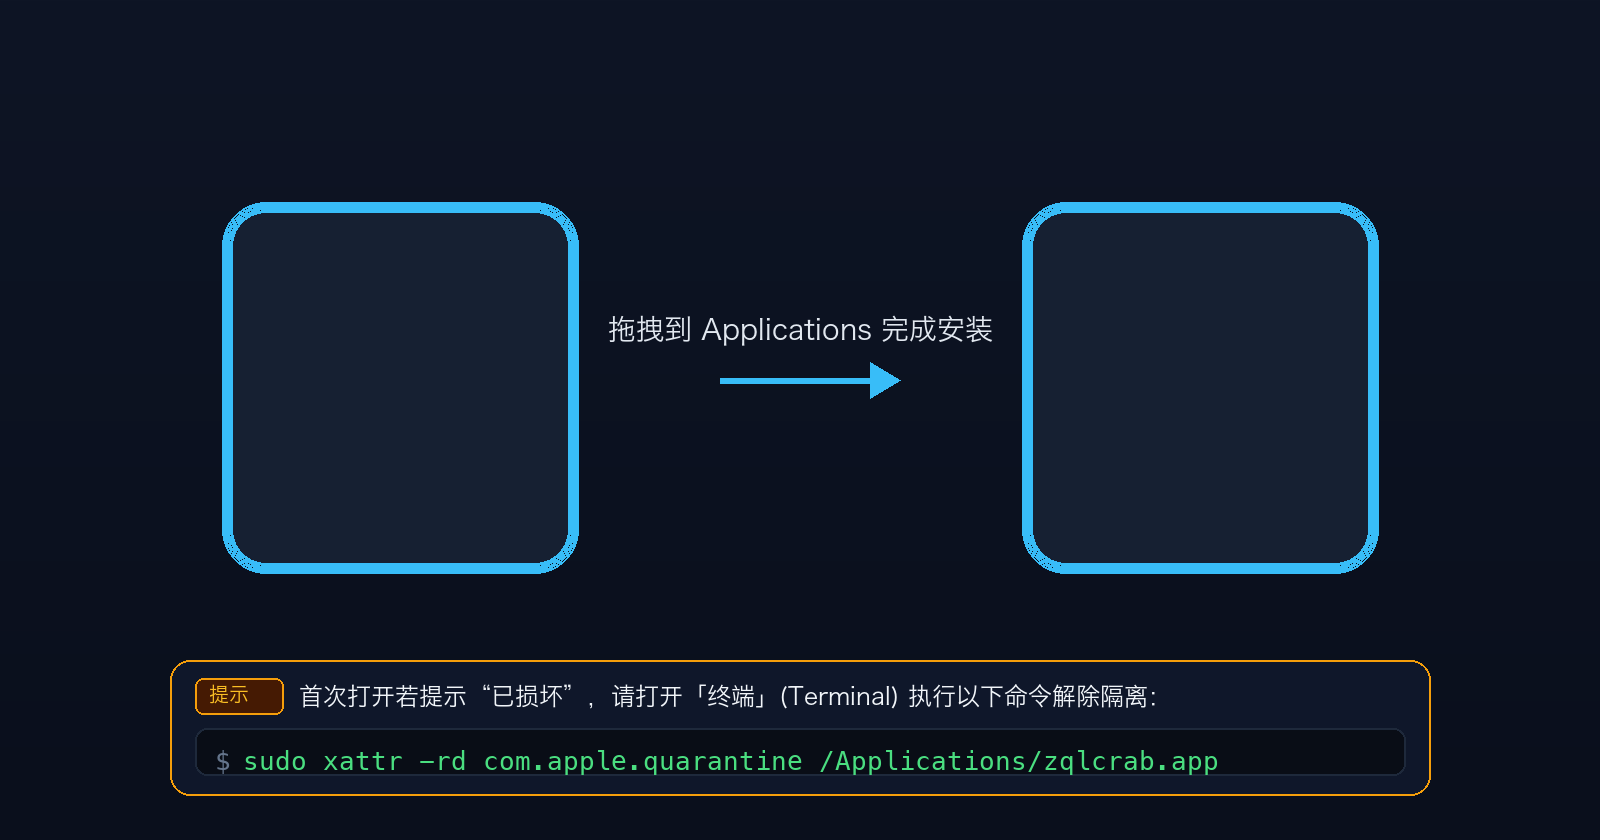
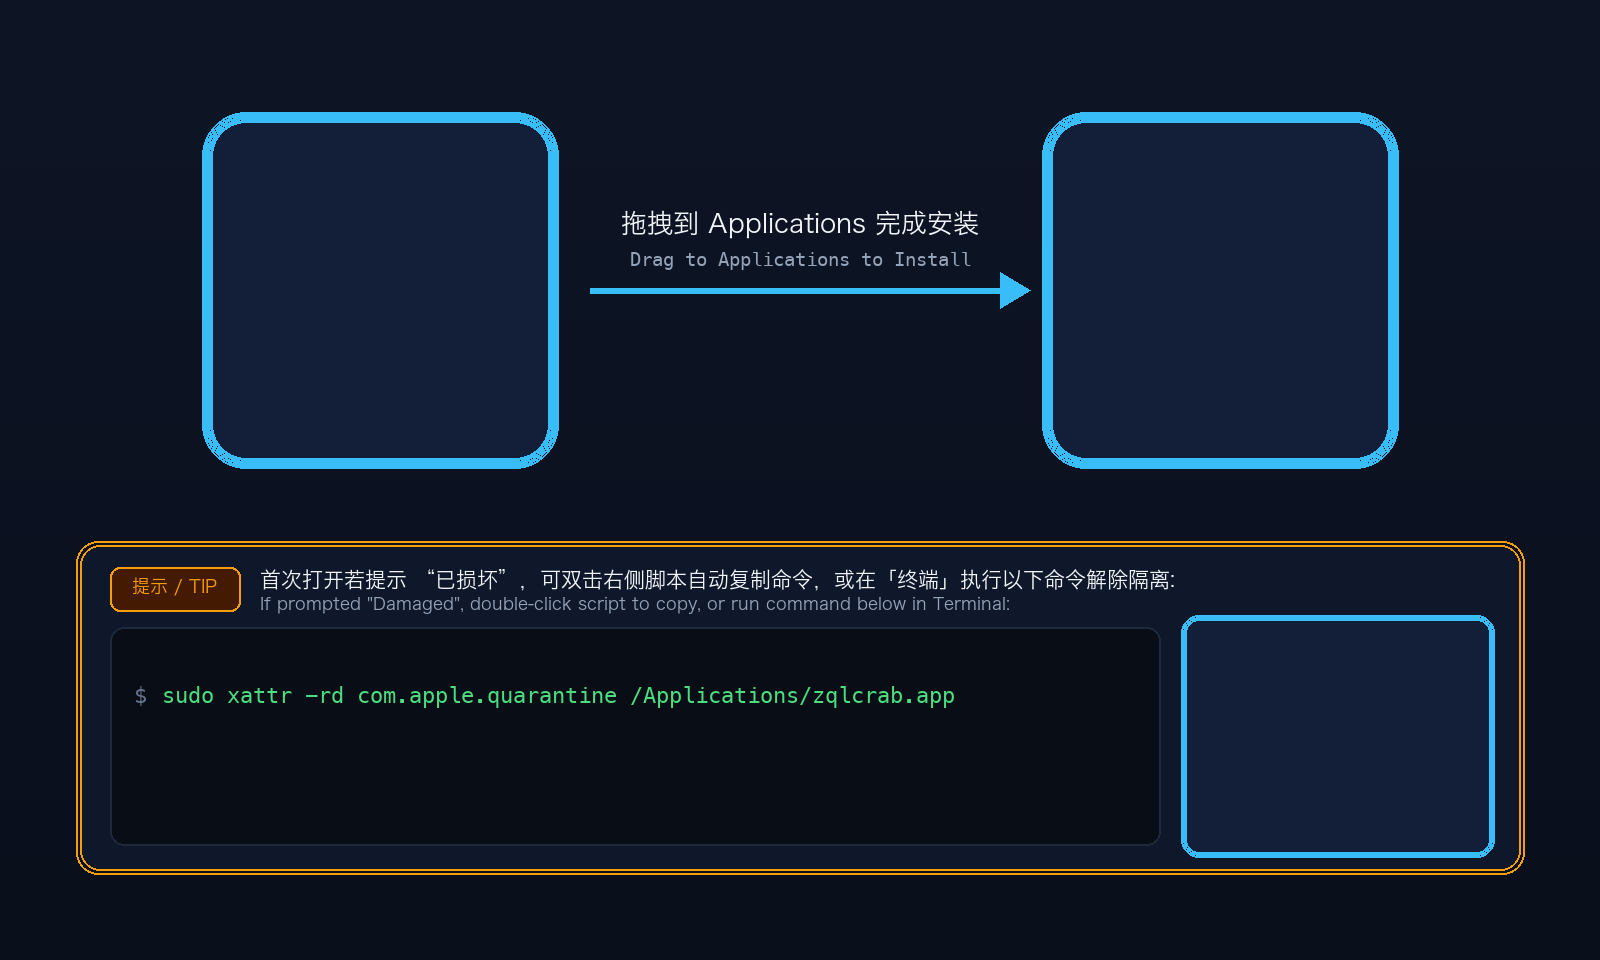
feat(dmg): add bilingual tips and double-click copy command helper script

Changed region(s): [[0.0312, 0.0929, 0.9688, 0.9286], [0.0625, 0.7119, 0.5938, 0.7429], [0.4375, 0.4333, 0.5625, 0.4643]]

diff --git a/scripts/generate_dmg_background.py b/scripts/generate_dmg_background.py
@@ -1,22 +1,23 @@
 #!/usr/bin/env python3
 """
 Generates the 2x Retina background image for zqlcrab macOS DMG installer.
-Window size in points: 800 x 420 (Retina: 1600 x 840 at 144 DPI)
+Window size in points: 800 x 480 (Retina: 1600 x 960 at 144 DPI)
 """
 
 from PIL import Image, ImageDraw, ImageFont
 import os
 
-W, H = 1600, 840
+W, H = 1600, 960
 img = Image.new("RGB", (W, H), (15, 23, 42))
 draw = ImageDraw.Draw(img)
 
 # Fonts
-font_title = ImageFont.truetype('/System/Library/Fonts/Hiragino Sans GB.ttc', 28)
-font_text = ImageFont.truetype('/System/Library/Fonts/Hiragino Sans GB.ttc', 24)
-font_badge = ImageFont.truetype('/System/Library/Fonts/Hiragino Sans GB.ttc', 20)
-font_code = ImageFont.truetype('/System/Library/Fonts/Menlo.ttc', 26)
-font_code_tag = ImageFont.truetype('/System/Library/Fonts/Menlo.ttc', 20)
+font_title = ImageFont.truetype('/System/Library/Fonts/Hiragino Sans GB.ttc', 26)
+font_title_en = ImageFont.truetype('/System/Library/Fonts/Menlo.ttc', 19)
+font_text_zh = ImageFont.truetype('/System/Library/Fonts/Hiragino Sans GB.ttc', 21)
+font_text_en = ImageFont.truetype('/System/Library/Fonts/Hiragino Sans GB.ttc', 17)
+font_badge = ImageFont.truetype('/System/Library/Fonts/Hiragino Sans GB.ttc', 18)
+font_code = ImageFont.truetype('/System/Library/Fonts/Menlo.ttc', 22)
 
 # 1. Subtle background gradient
 for y in range(H):
@@ -26,13 +27,12 @@ for y in range(H):
     b = int(37 * (1 - ratio) + 28 * ratio)
     draw.line([(0, y), (W, y)], fill=(r, g, b))
 
-# 2. Highlighted cards behind the two icons
+# 2. Highlighted cards behind the two main icons
 card_w = 340
-card_y1, card_y2 = 210, 565
-left_x1, left_x2 = 400 - card_w // 2, 400 + card_w // 2
-right_x1, right_x2 = 1200 - card_w // 2, 1200 + card_w // 2
+card_y1, card_y2 = 120, 460
+left_x1, left_x2 = 380 - card_w // 2, 380 + card_w // 2
+right_x1, right_x2 = 1220 - card_w // 2, 1220 + card_w // 2
 
-# Subtle glow outer borders
 for offset in [8, 6, 4, 2]:
     draw.rounded_rectangle(
         [left_x1 - offset, card_y1 - offset, left_x2 + offset, card_y2 + offset],
@@ -47,50 +47,45 @@ for offset in [8, 6, 4, 2]:
         width=2,
     )
 
-# Inner card fill and primary border
-draw.rounded_rectangle(
-    [left_x1, card_y1, left_x2, card_y2],
-    radius=36,
-    fill=(22, 32, 50),
-    outline=(56, 189, 248),
-    width=3,
-)
-draw.rounded_rectangle(
-    [right_x1, card_y1, right_x2, card_y2],
-    radius=36,
-    fill=(22, 32, 50),
-    outline=(56, 189, 248),
-    width=3,
-)
+draw.rounded_rectangle([left_x1, card_y1, left_x2, card_y2], radius=36, fill=(19, 31, 56), outline=(56, 189, 248), width=3)
+draw.rounded_rectangle([right_x1, card_y1, right_x2, card_y2], radius=36, fill=(19, 31, 56), outline=(56, 189, 248), width=3)
 
-# 3. Arrow pointing from left to right between cards
-arrow_cy = 380
-arrow_len = 160
-arrow_x1 = 800 - arrow_len // 2
-arrow_x2 = 800 + arrow_len // 2
+# 3. Middle glowing arrow & Bilingual Drag instruction
+arrow_y = 290
+arrow_x1 = left_x2 + 40
+arrow_x2 = right_x1 - 40
 
-draw.line([(arrow_x1, arrow_cy), (arrow_x2, arrow_cy)], fill=(56, 189, 248), width=6)
+draw.line([(arrow_x1, arrow_y), (arrow_x2, arrow_y)], fill=(56, 189, 248), width=6)
 arrow_pts = [
-    (arrow_x2 + 20, arrow_cy),
-    (arrow_x2 - 10, arrow_cy - 18),
-    (arrow_x2 - 10, arrow_cy + 18),
+    (arrow_x2 + 20, arrow_y),
+    (arrow_x2 - 10, arrow_y - 18),
+    (arrow_x2 - 10, arrow_y + 18),
 ]
 draw.polygon(arrow_pts, fill=(56, 189, 248))
 
-# Label above arrow
-inst_text = "拖拽到 Applications 完成安装"
-inst_bbox = draw.textbbox((0, 0), inst_text, font=font_title)
-inst_w = inst_bbox[2] - inst_bbox[0]
-draw.text((800 - inst_w // 2, arrow_cy - 65), inst_text, font=font_title, fill=(226, 232, 240))
+inst_zh = "拖拽到 Applications 完成安装"
+inst_en = "Drag to Applications to Install"
+zh_bbox = draw.textbbox((0, 0), inst_zh, font=font_title)
+en_bbox = draw.textbbox((0, 0), inst_en, font=font_title_en)
+zh_w = zh_bbox[2] - zh_bbox[0]
+en_w = en_bbox[2] - en_bbox[0]
+draw.text((800 - zh_w // 2, arrow_y - 80), inst_zh, font=font_title, fill=(241, 245, 249))
+draw.text((800 - en_w // 2, arrow_y - 42), inst_en, font=font_title_en, fill=(148, 163, 184))
 
-# 4. Bottom highlighted card for macOS Gatekeeper tip
-box_w = 1260
-box_h = 135
+# 4. Bottom card for macOS Gatekeeper tip & Double-click copy script slot
+box_w = 1440
+box_h = 325
 box_x1 = (W - box_w) // 2
 box_x2 = box_x1 + box_w
-box_y1 = H - box_h - 45
+box_y1 = 545
 box_y2 = box_y1 + box_h
 
+draw.rounded_rectangle(
+    [box_x1 - 4, box_y1 - 4, box_x2 + 4, box_y2 + 4],
+    radius=22,
+    outline=(245, 158, 11, 25),
+    width=2,
+)
 draw.rounded_rectangle(
     [box_x1, box_y1, box_x2, box_y2],
     radius=20,
@@ -99,34 +94,32 @@ draw.rounded_rectangle(
     width=2,
 )
 
-# Badge: [提示]
-badge_w = 88
-badge_h = 36
-badge_x = box_x1 + 25
-badge_y = box_y1 + 18
+# Badge
+badge_x1 = box_x1 + 30
+badge_y1 = box_y1 + 22
+badge_x2 = badge_x1 + 130
+badge_y2 = badge_y1 + 44
+draw.rounded_rectangle([badge_x1, badge_y1, badge_x2, badge_y2], radius=10, fill=(69, 26, 3), outline=(245, 158, 11), width=2)
+badge_text = "提示 / TIP"
+badge_bb = draw.textbbox((0, 0), badge_text, font=font_badge)
+badge_w = badge_bb[2] - badge_bb[0]
+draw.text((badge_x1 + (130 - badge_w) // 2, badge_y1 + 10), badge_text, font=font_badge, fill=(245, 158, 11))
 
-draw.rounded_rectangle(
-    [badge_x, badge_y, badge_x + badge_w, badge_y + badge_h],
-    radius=8,
-    fill=(69, 26, 3),
-    outline=(245, 158, 11),
-    width=2,
-)
-draw.text((badge_x + 14, badge_y + 6), "提示", font=font_badge, fill=(251, 191, 36))
+# Bilingual Tip Text
+tip_zh = '首次打开若提示 “已损坏”，可双击右侧脚本自动复制命令，或在「终端」执行以下命令解除隔离:'
+tip_en = 'If prompted "Damaged", double-click script to copy, or run command below in Terminal:'
+draw.text((badge_x2 + 20, badge_y1 + 1), tip_zh, font=font_text_zh, fill=(241, 245, 249))
+draw.text((badge_x2 + 20, badge_y1 + 28), tip_en, font=font_text_en, fill=(148, 163, 184))
 
-# Explanation text next to badge
-tip_text = "首次打开若提示“已损坏”，请打开「终端」(Terminal) 执行以下命令解除隔离："
-draw.text((badge_x + badge_w + 16, badge_y + 5), tip_text, font=font_text, fill=(241, 245, 249))
-
-# Code command box inside bottom card
-code_box_x1 = box_x1 + 25
-code_box_x2 = box_x2 - 25
-code_box_y1 = box_y1 + 68
-code_box_y2 = box_y2 - 20
+# Code command box (left)
+code_box_x1 = box_x1 + 30
+code_box_x2 = box_x1 + 1080
+code_box_y1 = box_y1 + 82
+code_box_y2 = box_y2 - 25
 
 draw.rounded_rectangle(
     [code_box_x1, code_box_y1, code_box_x2, code_box_y2],
-    radius=12,
+    radius=14,
     fill=(9, 13, 22),
     outline=(30, 41, 59),
     width=2,
@@ -134,8 +127,30 @@ draw.rounded_rectangle(
 
 cmd_prompt = "$"
 cmd_text = "sudo xattr -rd com.apple.quarantine /Applications/zqlcrab.app"
-draw.text((code_box_x1 + 20, code_box_y1 + 17), cmd_prompt, font=font_code, fill=(100, 116, 139))
-draw.text((code_box_x1 + 48, code_box_y1 + 17), cmd_text, font=font_code, fill=(74, 222, 128))
+draw.text((code_box_x1 + 24, code_box_y1 + 55), cmd_prompt, font=font_code, fill=(100, 116, 139))
+draw.text((code_box_x1 + 52, code_box_y1 + 55), cmd_text, font=font_code, fill=(74, 222, 128))
+
+# Copy Script zone (right)
+script_zone_x1 = code_box_x2 + 25
+script_zone_x2 = box_x2 - 30
+script_zone_y1 = code_box_y1 - 8
+script_zone_y2 = code_box_y2 + 8
+
+for offset in [4, 2]:
+    draw.rounded_rectangle(
+        [script_zone_x1 - offset, script_zone_y1 - offset, script_zone_x2 + offset, script_zone_y2 + offset],
+        radius=14 + offset,
+        outline=(56, 189, 248, 20),
+        width=2,
+    )
+
+draw.rounded_rectangle(
+    [script_zone_x1, script_zone_y1, script_zone_x2, script_zone_y2],
+    radius=14,
+    fill=(19, 31, 56),
+    outline=(56, 189, 248),
+    width=2,
+)
 
 # Output file path
 output_path = os.path.join(os.path.dirname(__file__), '..', 'assets', 'dmg-background.png')

diff --git a/README.md b/README.md
@@ -101,6 +101,7 @@ Download the `.dmg` package from [Releases](https://github.com/hyzwhu/zqlcrab/re
 > ```bash
 > sudo xattr -rd com.apple.quarantine /Applications/zqlcrab.app
 > ```
+> Alternatively, double-click the `双击复制修复命令.command` helper script inside the DMG installer window to automatically copy the command or execute the fix with one click.
 
 Build from source:
 ```bash

diff --git a/README_zh.md b/README_zh.md
@@ -88,6 +88,7 @@ cd zqlcrab
 > ```bash
 > sudo xattr -rd com.apple.quarantine /Applications/zqlcrab.app
 > ```
+> 或在挂载的 DMG 安装窗口中直接双击运行「双击复制修复命令.command」脚本，自动复制命令或一键执行修复。
 
 源码编译：
 ```bash
